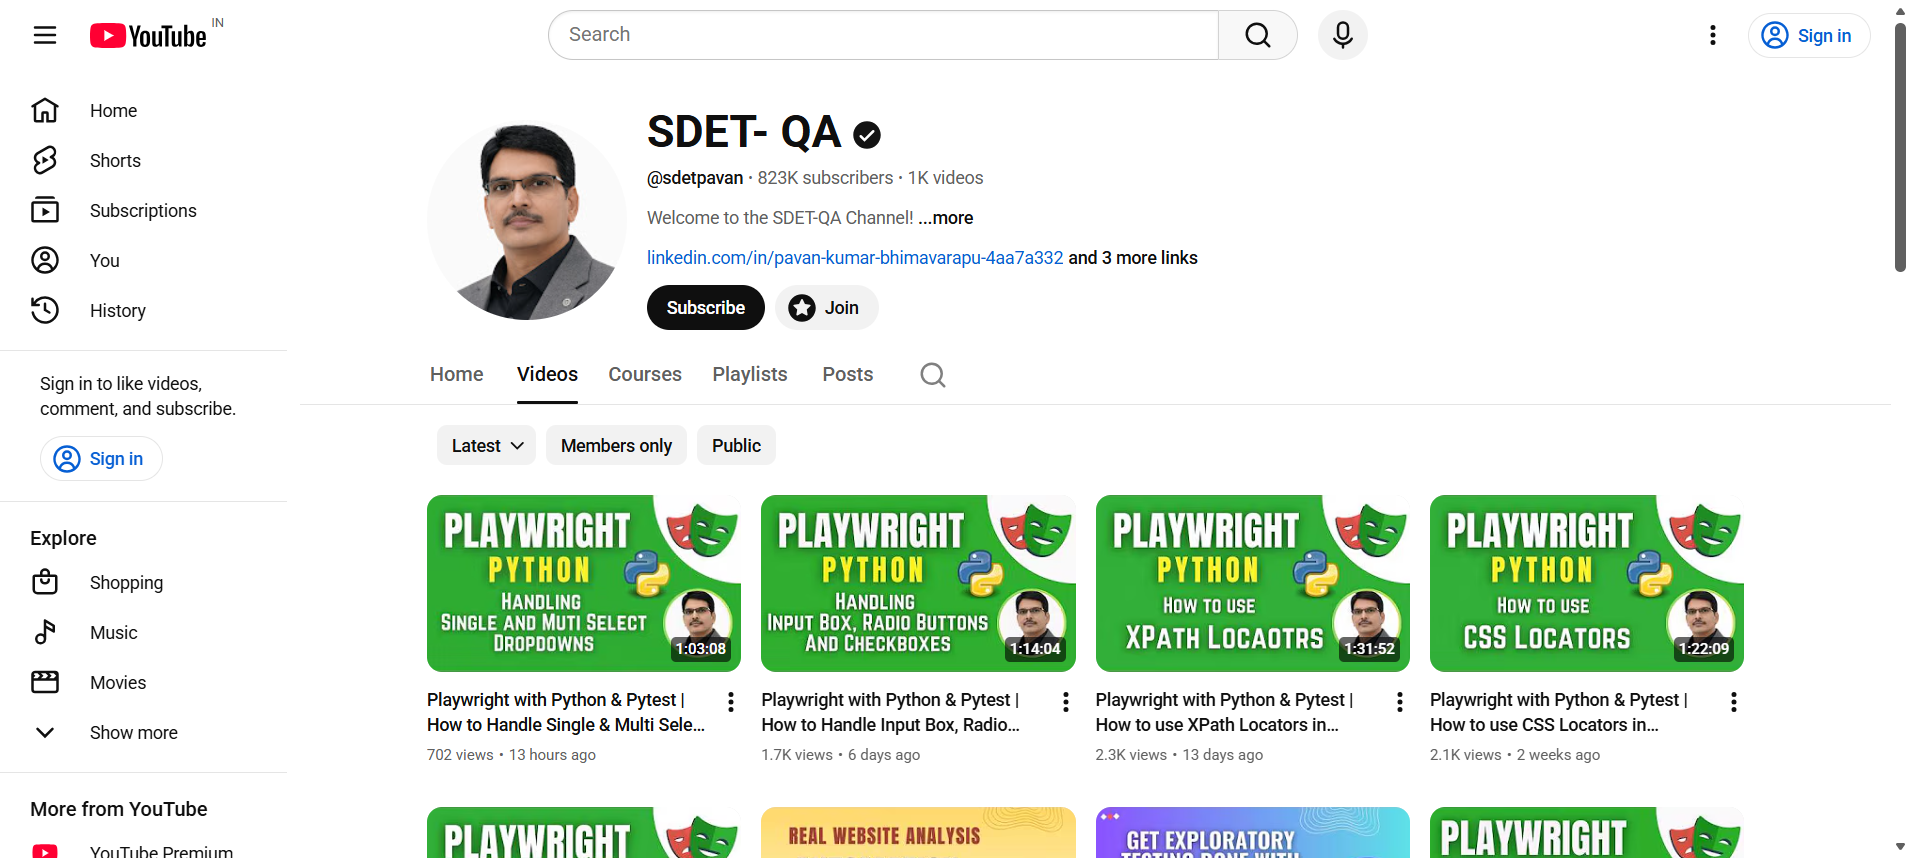
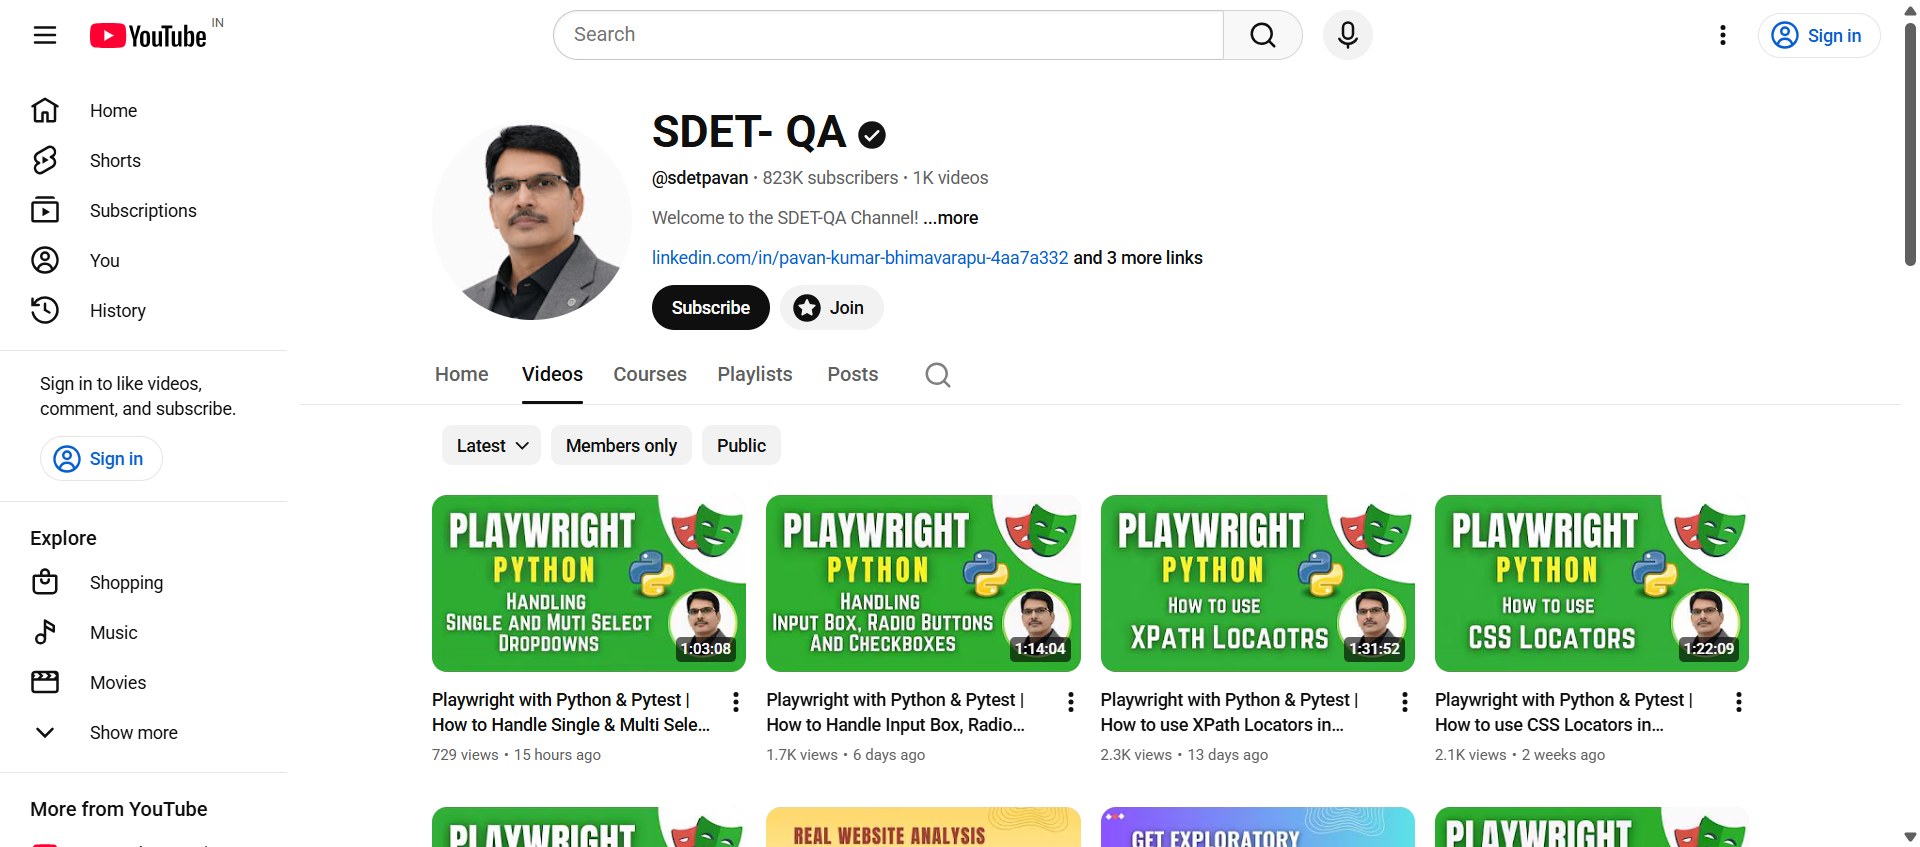
new changes

diff --git a/test-output/emailable-report.html b/test-output/emailable-report.html
@@ -9,9 +9,9 @@
 <table>
 <tr><th>Test</th><th># Passed</th><th># Skipped</th><th># Retried</th><th># Failed</th><th>Time (ms)</th><th>Included Groups</th><th>Excluded Groups</th></tr>
 <tr><th colspan="8">GUI Suite</th></tr>
-<tr><td><a href="#t0">GUI Tests</a></td><td class="num">1</td><td class="num">0</td><td class="num">0</td><td class="num">0</td><td class="num">33,491</td><td></td><td></td></tr>
+<tr><td><a href="#t0">GUI Tests</a></td><td class="num">1</td><td class="num">0</td><td class="num">0</td><td class="num">0</td><td class="num">92,756</td><td></td><td></td></tr>
 </table>
-<table id='summary'><thead><tr><th>Class</th><th>Method</th><th>Start</th><th>Time (ms)</th></tr></thead><tbody><tr><th colspan="4">GUI Suite</th></tr></tbody><tbody id="t0"><tr><th colspan="4">GUI Tests &#8212; passed</th></tr><tr class="passedeven"><td rowspan="1">GuiTest.GUIElementsTest</td><td><a href="#m0">GUIFormTest</a></td><td rowspan="1">1773289080507</td><td rowspan="1">21707</td></tr></tbody>
+<table id='summary'><thead><tr><th>Class</th><th>Method</th><th>Start</th><th>Time (ms)</th></tr></thead><tbody><tr><th colspan="4">GUI Suite</th></tr></tbody><tbody id="t0"><tr><th colspan="4">GUI Tests &#8212; passed</th></tr><tr class="passedeven"><td rowspan="1">GuiTest.GUIElementsTest</td><td><a href="#m0">GUIFormTest</a></td><td rowspan="1">1773294995824</td><td rowspan="1">52395</td></tr></tbody>
 </table>
 <h2>GUI Tests</h2><h3 id="m0">GuiTest.GUIElementsTest#GUIFormTest</h3><table class="result"><tr><th class="invisible"/></tr></table><p class="totop"><a href="#summary">back to summary</a></p>
 </body>

diff --git a/test-output/index.html b/test-output/index.html
@@ -192,12 +192,12 @@ data.addRows(1);
 data.setCell(0, 0, 0)
 data.setCell(0, 1, 'GUIFormTest')
 data.setCell(0, 2, 'GuiTest.GUIElementsTest')
-data.setCell(0, 3, 21707);
+data.setCell(0, 3, 52395);
 window.suiteTableData['GUI_Suite']= { tableData: data, tableDiv: 'times-div-GUI_Suite'}
 return data;
 }
               </script>
-              <span class="suite-total-time">Total running time: 21 seconds</span>
+              <span class="suite-total-time">Total running time: 52 seconds</span>
               <div id="times-div-GUI_Suite">
               </div> <!-- times-div-GUI_Suite -->
             </div> <!-- times-div -->
@@ -230,11 +230,11 @@ return data;
               </div> <!-- configuration-method before -->
               <div class="test-method">
                 <span class="method-name">GUIFormTest</span>
-                <span class="method-start">9150 ms</span>
+                <span class="method-start">31691 ms</span>
               </div> <!-- test-method -->
               <div class="configuration-method after">
                 <span class="method-name">teardown</span>
-                <span class="method-start">30922 ms</span>
+                <span class="method-start">84167 ms</span>
               </div> <!-- configuration-method after -->
           </div> <!-- main-panel-content rounded-window-bottom -->
         </div> <!-- panel -->

diff --git a/test-output/GUI Suite/GUI Tests.html b/test-output/GUI Suite/GUI Tests.html
@@ -57,9 +57,9 @@ function toggleAllBoxes() {
 <tr>
 <td>Tests passed/Failed/Skipped:</td><td>1/0/0</td>
 </tr><tr>
-<td>Started on:</td><td>Thu Mar 12 09:47:51 IST 2026</td>
+<td>Started on:</td><td>Thu Mar 12 11:26:03 IST 2026</td>
 </tr>
-<tr><td>Total time:</td><td>33 seconds (33491 ms)</td>
+<tr><td>Total time:</td><td>92 seconds (92756 ms)</td>
 </tr><tr>
 <td>Included groups:</td><td></td>
 </tr><tr>
@@ -78,7 +78,7 @@ function toggleAllBoxes() {
 <tr>
 <td title='GuiTest.GUIElementsTest.GUIFormTest()'><b>GUIFormTest</b><br>Test class: GuiTest.GUIElementsTest</td>
 <td></td>
-<td>21</td>
+<td>52</td>
 <td>GuiTest.GUIElementsTest@6a6cb05c</td></tr>
 </table><p>
 </body>

diff --git a/src/test/java/Base/BaseTest.java b/src/test/java/Base/BaseTest.java
@@ -12,12 +12,12 @@ public class BaseTest {
 	protected WebDriver driver ;
 	ConfigReader config;
 	@BeforeMethod
-	/*public void setup() {
+	public void setup() {
 		driver = new ChromeDriver();
 		driver.manage().window().maximize();
 		driver.get("https://testautomationpractice.blogspot.com");
-	}*/
-	public void setup() throws Exception {
+	}
+	/*public void setup() throws Exception {
 
 		config = new ConfigReader();
 
@@ -39,7 +39,7 @@ public class BaseTest {
 
         // Open URL from config.properties
         driver.get(config.getURL());
-    }
+    }*/
 
 	@AfterMethod
 	public void teardown() {
